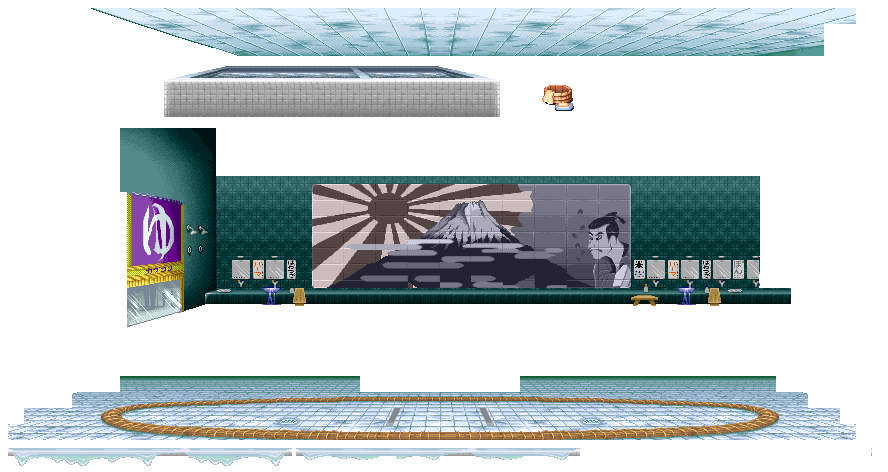
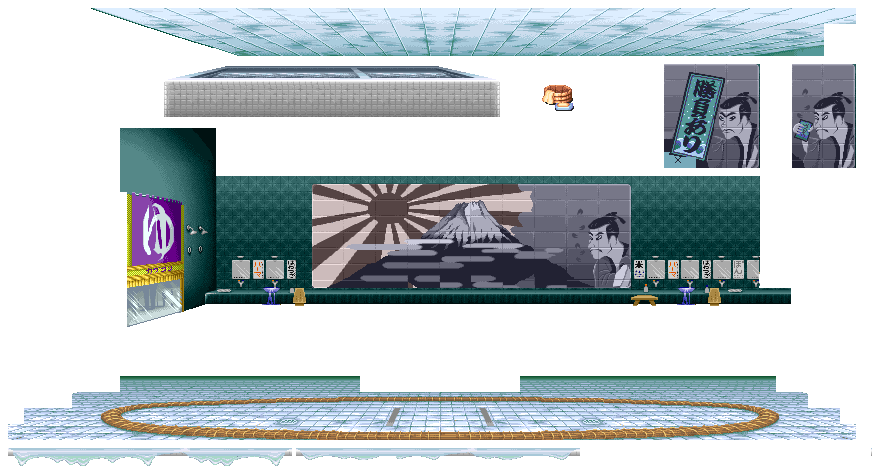
Add more animations

Changed region(s): [[0.7297, 0.1186, 0.973, 0.3559]]

diff --git a/src/StreetFighter/ModuleSceneHonda.cpp b/src/StreetFighter/ModuleSceneHonda.cpp
@@ -19,10 +19,10 @@ ModuleSceneHonda::ModuleSceneHonda(bool start_enabled) : Module(start_enabled)
 	ground.h = 65;
 
 	// Background
-	background.x = 121;
-	background.y = 129;
+	background.x = 127;
+	background.y = 128;
 	background.w = 671;
-	background.h = 198;
+	background.h = 199;
 
 	//Foreground
 	foreground.x = 164;
@@ -32,15 +32,27 @@ ModuleSceneHonda::ModuleSceneHonda(bool start_enabled) : Module(start_enabled)
 
 	//Roof
 	roof.x = 91;
-	roof.y = 7;
+	roof.y = 8;
 	roof.w = 765;
-	roof.h = 49;
+	roof.h = 48;
 
 	// water animation
 	water.frames.push_back({ 8, 448, 283, 8 });
 	water.frames.push_back({ 297, 448, 283, 12 });
-	water.frames.push_back({ 589, 448, 283, 19 });
+	water.frames.push_back({ 589, 448, 283, 19 }); //224 64
 	water.speed = 0.05f;
+
+	// picture animation
+	picture.frames.push_back({ 224, 64, 224, 104 });
+	picture.frames.push_back({ 456, 64, 224, 104 });
+	picture.speed = 0.05f;
+
+	// guy animation
+	guy.frames.push_back({ 0, 0, 0, 0 });
+	guy.frames.push_back({ 760, 64, 96, 104 });
+	guy.frames.push_back({ 664, 64, 96, 104 });
+	guy.frames.push_back({ 760, 64, 96, 104 });
+	guy.speed = 0.05f;
 }
 
 ModuleSceneHonda::~ModuleSceneHonda()
@@ -76,13 +88,15 @@ bool ModuleSceneHonda::CleanUp()
 // Update: draw background
 update_status ModuleSceneHonda::Update()
 {
-	float speedGroundBath = 1.4f;
+	float speedGroundBath = 1.2f;
 	float speedRoofbackground = 1.0f;
-	App->renderer->Blit(graphics, 0, 160, &ground, speedGroundBath);
-	App->renderer->Blit(graphics2, 50, -15, &background, speedRoofbackground); // background
-	App->renderer->Blit(graphics, 0, -15, &roof, speedRoofbackground); // roof
-	App->renderer->Blit(graphics2, 300, 125, &foreground, speedGroundBath); // bath 
-	App->renderer->Blit(graphics, 300, 141, &(water.GetCurrentFrame()), speedGroundBath); // water animation
+	App->renderer->Blit(graphics, -82, 160, &ground, speedGroundBath); //ground
+	App->renderer->Blit(graphics2, 0, -15, &background, speedRoofbackground); // background
+	App->renderer->Blit(graphics, -57, -15, &roof, speedRoofbackground); // roof
+	App->renderer->Blit(graphics, 185, 41, &(picture.GetCurrentFrame()), speedRoofbackground); // picture animation
+	App->renderer->Blit(graphics2, 409, 41, &(guy.GetCurrentFrame()), speedRoofbackground); // guy animation
+	App->renderer->Blit(graphics2, 250, 125, &foreground, speedGroundBath); // bath 
+	App->renderer->Blit(graphics, 276, 141, &(water.GetCurrentFrame()), speedGroundBath); // water animation
 
 	const Uint8* keys = SDL_GetKeyboardState(NULL);
 	if (keys[SDL_SCANCODE_SPACE]) App->fade->FadeToBlack(App->scene_ken, App->scene_honda, 1.0f);

diff --git a/src/StreetFighter/ModuleSceneKen.cpp b/src/StreetFighter/ModuleSceneKen.cpp
@@ -48,6 +48,35 @@ ModuleSceneKen::ModuleSceneKen(bool start_enabled) : Module(start_enabled)
 	girl.frames.push_back({ 624, 80, 32, 56 });
 	girl.frames.push_back({ 624, 144, 32, 56 });
 	girl.speed = 0.05f;
+
+	// greenGuy animation
+	greenGuy.frames.push_back({ 664, 16, 32, 56 });
+	greenGuy.frames.push_back({ 664, 80, 32, 56 });
+	greenGuy.speed = 0.05f;
+
+	// blueGuy animation
+	blueGuy.frames.push_back({ 705, 16, 47, 56 });
+	blueGuy.frames.push_back({ 705, 80, 47, 56 });
+	blueGuy.frames.push_back({ 705, 144, 47, 56 });
+	blueGuy.speed = 0.05f;
+
+	// brownGuy animation
+	brownGuy.frames.push_back({ 760, 16, 40, 40 });
+	brownGuy.frames.push_back({ 760, 64, 40, 40 });
+	brownGuy.frames.push_back({ 760, 112, 40, 40 });
+	brownGuy.speed = 0.05f;
+
+	// pinkGuy animation
+	pinkGuy.frames.push_back({ 808, 24, 48, 32 });
+	pinkGuy.frames.push_back({ 808, 72, 48, 32 });
+	pinkGuy.frames.push_back({ 808, 120, 48, 32 });
+	pinkGuy.speed = 0.05f;
+
+	// greyGuy animation
+	greyGuy.frames.push_back({ 552, 8, 64, 64 });
+	greyGuy.frames.push_back({ 552, 72, 64, 64 });
+	greyGuy.frames.push_back({ 552, 136, 64, 64 });
+	greyGuy.speed = 0.05f;
 }
 
 ModuleSceneKen::~ModuleSceneKen()
@@ -96,7 +125,12 @@ update_status ModuleSceneKen::Update()
 	App->renderer->Blit(graphics, 0, -yOffset, &foreground, speed); // foreground
 
 	// TODO 6: Draw the girl. Make sure it follows the ship movement!
-	App->renderer->Blit(graphics, 192, 104 - yOffset, &(girl.GetCurrentFrame()), speed); // girl animation 200 128
+	App->renderer->Blit(graphics, 192, 104 - yOffset, &(girl.GetCurrentFrame()), speed); // girl animation
+	App->renderer->Blit(graphics, 224, 104 - yOffset, &(greenGuy.GetCurrentFrame()), speed); // greenGuy animation
+	App->renderer->Blit(graphics, 288, 96 - yOffset, &(blueGuy.GetCurrentFrame()), speed); // blueGuy animation
+	App->renderer->Blit(graphics, 87, 24 - yOffset, &(brownGuy.GetCurrentFrame()), speed); // brownGuy animation
+	App->renderer->Blit(graphics, 130, 24 - yOffset, &(pinkGuy.GetCurrentFrame()), speed); // pinkGuy animation
+	App->renderer->Blit(graphics, 128, 96 - yOffset, &(greyGuy.GetCurrentFrame()), speed); // greyGuy animation
 
 	App->renderer->Blit(graphics, 0, 170, &ground);
 
@@ -127,5 +161,5 @@ int ModuleSceneKen::Offset()
 		if (_increase == 0) _up = true;
 	}
 
-	return 0;// _increase / 20;
+	return _increase / 20;
 }

diff --git a/src/StreetFighter/ModuleSceneKen.h b/src/StreetFighter/ModuleSceneKen.h
@@ -26,6 +26,11 @@ public:
 	SDL_Rect foreground;
 	Animation flag;
 	Animation girl;
+	Animation greenGuy;
+	Animation blueGuy;
+	Animation brownGuy;
+	Animation pinkGuy;
+	Animation greyGuy;
 
 
 private:

diff --git a/src/StreetFighter/ModuleSceneHonda.h b/src/StreetFighter/ModuleSceneHonda.h
@@ -26,6 +26,8 @@ public:
 	SDL_Rect foreground;
 	SDL_Rect roof;
 	Animation water;
+	Animation picture;
+	Animation guy;
 
 };
 
